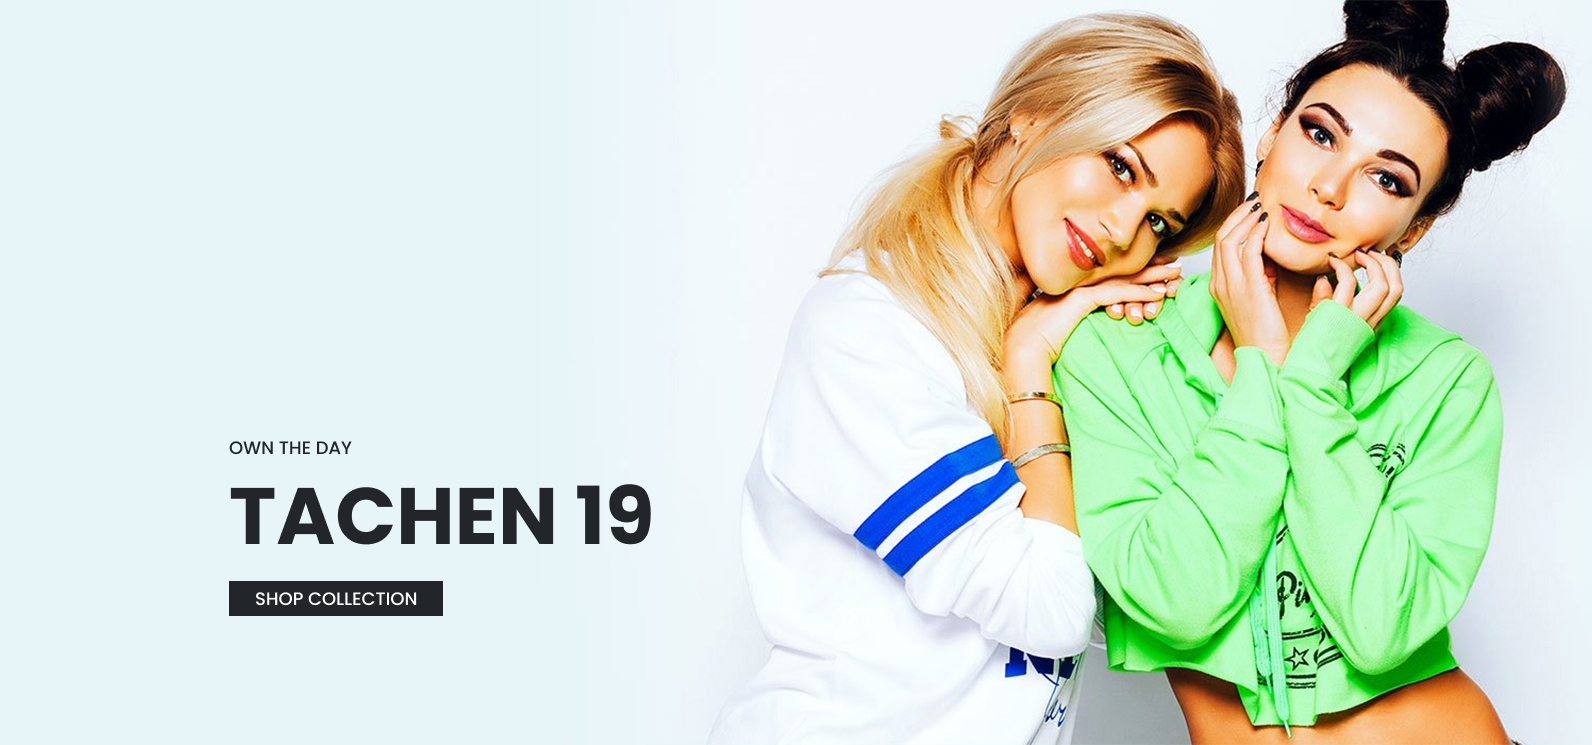
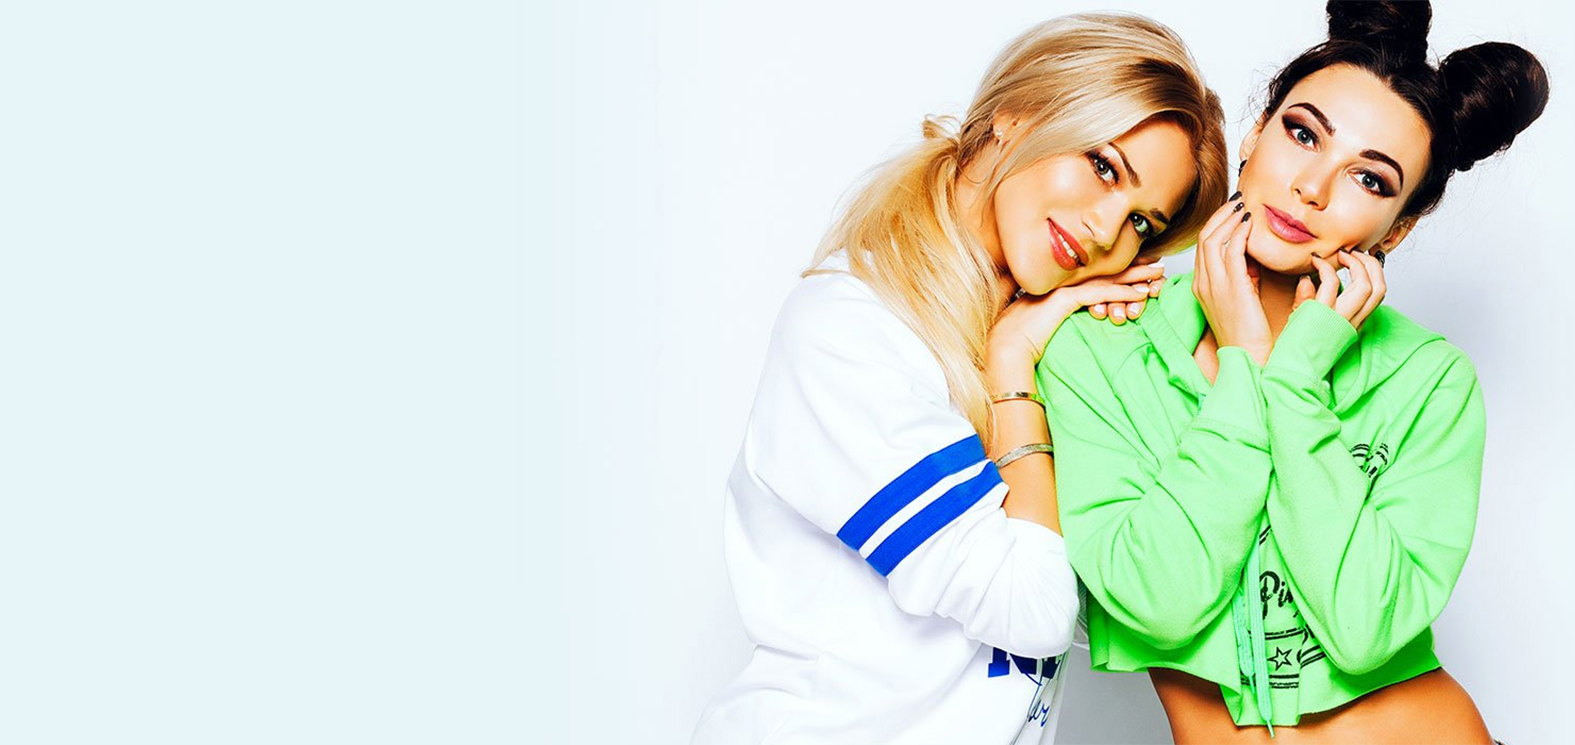
bottom секция

diff --git a/css/style.min.css b/css/style.min.css
@@ -1,1 +1,1 @@
-.header__wrapper{height:83px;display:-webkit-box;display:-ms-flexbox;display:flex;-webkit-box-pack:justify;-ms-flex-pack:justify;justify-content:space-between;-webkit-box-align:center;-ms-flex-align:center;align-items:center;text-transform:uppercase}.logo{text-shadow:4px 2px 4px #969696;font-size:28px;font-weight:600}.menu__list{display:-webkit-box;display:-ms-flexbox;display:flex;-webkit-box-pack:justify;-ms-flex-pack:justify;justify-content:space-between}.menu__item{font-size:18px;padding:0 15px;-webkit-transition:0.3s text-shadow;-o-transition:0.3s text-shadow;transition:0.3s text-shadow}.menu__item:hover{text-shadow:4px 2px 4px #969696;-webkit-transition:0.3s text-shadow;-o-transition:0.3s text-shadow;transition:0.3s text-shadow}.top{background:url("../../images/bg/header-bg.jpg") top center/cover no-repeat;height:745px;display:-webkit-box;display:-ms-flexbox;display:flex;-webkit-box-orient:vertical;-webkit-box-direction:normal;-ms-flex-direction:column;flex-direction:column;-webkit-box-pack:end;-ms-flex-pack:end;justify-content:flex-end;padding-bottom:101px;-webkit-box-shadow:0px 4px 6px #969696;box-shadow:0px 4px 6px #969696}.top__text{font-size:18px;font-weight:500;margin-left:650px}.top__trand{text-transform:uppercase}.top__trand-name{text-transform:uppercase;font-size:80px;line-height:120px}.top__trand-descr{font-weight:500}.models{padding:121px 0 111px 0}.model{-webkit-transition:0.4s all;-o-transition:0.4s all;transition:0.4s all}.model__link{position:relative;display:inline-block;margin-bottom:20px}.model__link_2{margin-right:22px}.model__img:before{content:'';position:absolute;top:0;left:0;right:0;bottom:0;background-color:#000;opacity:0;-webkit-transition:0.4s all;-o-transition:0.4s all;transition:0.4s all;z-index:1}.model__img:hover .model{-webkit-transform:scale(1.05);-ms-transform:scale(1.05);transform:scale(1.05);-webkit-transition:0.4s all;-o-transition:0.4s all;transition:0.4s all}.model__img:hover .catagory__name{opacity:1;-webkit-transition:1s;-o-transition:1s;transition:1s}.model__img:hover:before{opacity:0.5;-webkit-transform:scale(1.05);-ms-transform:scale(1.05);transform:scale(1.05)}.catagory__name{position:absolute;text-transform:uppercase;background-color:#fff;font-weight:500;padding:0 13px;bottom:3%;left:3%;opacity:0;z-index:4}.catalog__card{width:268px;height:371px;-o-object-fit:cover;object-fit:cover}.catalog__img-wrapper{display:inline-block;overflow:hidden}.catalog__img{-webkit-transition:0.4s all;-o-transition:0.4s all;transition:0.4s all}.catalog__img:hover{-webkit-transform:scale(1.05);-ms-transform:scale(1.05);transform:scale(1.05);-webkit-transition:0.4s all;-o-transition:0.4s all;transition:0.4s all}.catalog .swiper-container{padding:72px 0 110px 0}.catalog .swiper-slide{width:268px}.catalog .swiper-button-prev{z-index:1}.catalog .swiper-button-next{z-index:1}.dress__wrapper{display:-webkit-box;display:-ms-flexbox;display:flex;position:relative;-webkit-box-align:start;-ms-flex-align:start;align-items:start;padding-top:64px;margin-bottom:121px;height:750px}.dress__wrapper:hover .dress__link::after{width:100%;-webkit-transition:0.4s all;-o-transition:0.4s all;transition:0.4s all}.dress__wrapper .dress__img_1{-ms-flex-item-align:end;align-self:flex-end}.dress__wrapper .dress__img_2{margin:0 25px}.dress__wrapper .dress__img_3{border-left:25px solid #fff;border-top:25px solid #fff}.dress__show-dress{display:-webkit-box;display:-ms-flexbox;display:flex;-webkit-box-align:end;-ms-flex-align:end;align-items:flex-end;position:absolute;right:0;bottom:0}.dress__link{text-transform:uppercase;position:relative}.dress__link::after{display:block;content:'';position:absolute;height:2px;width:0;background-color:#000;bottom:0;right:0;-webkit-transition:0.4s all;-o-transition:0.4s all;transition:0.4s all}.btn{min-width:147px;min-height:35px;background-color:#22262a;color:#fff;text-transform:uppercase;border:none;-webkit-transition:0.3s all;-o-transition:0.3s all;transition:0.3s all;cursor:pointer}.btn:hover{background-color:#fff;color:#22262a;-webkit-transition:0.3s all;-o-transition:0.3s all;transition:0.3s all}.top__btn{margin-right:34px;margin-top:30px}.title{font-size:20px;font-weight:900;text-align:center;margin-bottom:15px}.title__descr{font-size:15px;font-weight:400;text-align:center}html{-webkit-box-sizing:border-box;box-sizing:border-box}body{font-family:'Poppins', sans-serif}*,*::before,::after{-webkit-box-sizing:inherit;box-sizing:inherit}a{text-decoration:none;color:inherit}a:hover{text-decoration:none;color:inherit}ul,li{margin:0;padding:0;list-style:none}h1,h2,h3,h4,h5,h6{margin:0}.container{max-width:1180px;margin:0 auto;padding:0 15px}.hamburger{display:none}@media (max-width: 1200px){.container{max-width:970px}}@media (max-width: 992px){.container{max-width:750px}}@media (max-width: 767px){.container{max-width:none}}@media (max-width: 575px){.hamburger{display:block;position:absolute;top:50%;-webkit-transform:translateY(-50%);-ms-transform:translateY(-50%);transform:translateY(-50%);width:28px}.hamburger span{display:block;height:3px;width:100%;background-color:#fff;margin-bottom:6px;-webkit-transition:0.5s all;-o-transition:0.5s all;transition:0.5s all}.hamburger span:last-child{margin-bottom:0}.hamburger_active span{margin-bottom:-3px}.hamburger_active span:nth-child(1){-webkit-transform:translateY(3px) rotate(-45deg);-ms-transform:translateY(3px) rotate(-45deg);transform:translateY(3px) rotate(-45deg)}.hamburger_active span:nth-child(2){display:none}.hamburger_active span:nth-child(3){-webkit-transform:translateY(3px) rotate(45deg);-ms-transform:translateY(3px) rotate(45deg);transform:translateY(3px) rotate(45deg)}}
+.header__wrapper{height:83px;display:-webkit-box;display:-ms-flexbox;display:flex;-webkit-box-pack:justify;-ms-flex-pack:justify;justify-content:space-between;-webkit-box-align:center;-ms-flex-align:center;align-items:center;text-transform:uppercase}.logo{text-shadow:4px 2px 4px #969696;font-size:28px;font-weight:600}.menu__list{display:-webkit-box;display:-ms-flexbox;display:flex;-webkit-box-pack:justify;-ms-flex-pack:justify;justify-content:space-between}.menu__item{font-size:18px;padding:0 15px;-webkit-transition:0.3s text-shadow;-o-transition:0.3s text-shadow;transition:0.3s text-shadow}.menu__item:hover{text-shadow:4px 2px 4px #969696;-webkit-transition:0.3s text-shadow;-o-transition:0.3s text-shadow;transition:0.3s text-shadow}.top{background:url("../../images/bg/header-bg.jpg") top center/cover no-repeat;height:745px;display:-webkit-box;display:-ms-flexbox;display:flex;-webkit-box-orient:vertical;-webkit-box-direction:normal;-ms-flex-direction:column;flex-direction:column;-webkit-box-pack:end;-ms-flex-pack:end;justify-content:flex-end;padding-bottom:101px;-webkit-box-shadow:0px 4px 6px #969696;box-shadow:0px 4px 6px #969696}.top__text{font-size:18px;font-weight:500;margin-left:650px}.top__trand{text-transform:uppercase}.top__trand-name{text-transform:uppercase;font-size:80px;line-height:120px}.top__trand-descr{font-weight:500}.models{padding:121px 0 111px 0}.model{-webkit-transition:0.4s all;-o-transition:0.4s all;transition:0.4s all}.model__link{position:relative;display:inline-block;margin-bottom:20px}.model__link_2{margin-right:22px}.model__img:before{content:'';position:absolute;top:0;left:0;right:0;bottom:0;background-color:#000;opacity:0;-webkit-transition:0.4s all;-o-transition:0.4s all;transition:0.4s all;z-index:1}.model__img:hover .model{-webkit-transform:scale(1.05);-ms-transform:scale(1.05);transform:scale(1.05);-webkit-transition:0.4s all;-o-transition:0.4s all;transition:0.4s all}.model__img:hover .catagory__name{opacity:1;-webkit-transition:1s;-o-transition:1s;transition:1s}.model__img:hover:before{opacity:0.5;-webkit-transform:scale(1.05);-ms-transform:scale(1.05);transform:scale(1.05)}.catagory__name{position:absolute;text-transform:uppercase;background-color:#fff;font-weight:500;padding:0 13px;bottom:3%;left:3%;opacity:0;z-index:4}.catalog__card{width:268px;height:371px;-o-object-fit:cover;object-fit:cover}.catalog__img-wrapper{display:inline-block;overflow:hidden}.catalog__img{-webkit-transition:0.4s all;-o-transition:0.4s all;transition:0.4s all}.catalog__img:hover{-webkit-transform:scale(1.05);-ms-transform:scale(1.05);transform:scale(1.05);-webkit-transition:0.4s all;-o-transition:0.4s all;transition:0.4s all}.catalog .swiper-container{padding:72px 0 110px 0}.catalog .swiper-slide{width:268px}.catalog .swiper-button-prev{z-index:1}.catalog .swiper-button-next{z-index:1}.dress__wrapper{display:-webkit-box;display:-ms-flexbox;display:flex;position:relative;-webkit-box-align:start;-ms-flex-align:start;align-items:start;padding-top:64px;margin-bottom:121px;height:750px}.dress__wrapper:hover .dress__link::after{width:100%;-webkit-transition:0.4s all;-o-transition:0.4s all;transition:0.4s all}.dress__wrapper .dress__img-link_1{-ms-flex-item-align:end;align-self:flex-end}.dress__wrapper .dress__img-link_2{margin:0 25px}.dress__wrapper .dress__img-link_3{border-left:25px solid #fff;border-top:25px solid #fff}.dress__show-dress{display:-webkit-box;display:-ms-flexbox;display:flex;-webkit-box-align:end;-ms-flex-align:end;align-items:flex-end;position:absolute;right:0;bottom:0}.dress__link{text-transform:uppercase;position:relative}.dress__link::after{display:block;content:'';position:absolute;height:2px;width:0;background-color:#000;bottom:0;right:0;-webkit-transition:0.4s all;-o-transition:0.4s all;transition:0.4s all}.bottom{background:url("../../images/bg/footer-banner.jpg") top center/cover no-repeat;height:745px;display:-webkit-box;display:-ms-flexbox;display:flex;-webkit-box-orient:vertical;-webkit-box-direction:normal;-ms-flex-direction:column;flex-direction:column;-webkit-box-pack:end;-ms-flex-pack:end;justify-content:flex-end;padding-bottom:101px;-webkit-box-shadow:0px 4px 6px #969696;box-shadow:0px 4px 6px #969696}.bottom__text{font-size:18px;font-weight:500}.bottom__trand{text-transform:uppercase}.bottom__trand-name{text-transform:uppercase;font-size:80px;line-height:120px}.bottom__trand-descr{font-weight:500}.btn{min-width:147px;min-height:35px;background-color:#22262a;color:#fff;text-transform:uppercase;border:none;-webkit-transition:0.3s all;-o-transition:0.3s all;transition:0.3s all;cursor:pointer}.btn:hover{background-color:#fff;color:#22262a;-webkit-transition:0.3s all;-o-transition:0.3s all;transition:0.3s all}.top__btn{margin-right:34px;margin-top:30px}.bottom__btn{margin-top:20px;padding:0 25px}.title{font-size:20px;font-weight:900;text-align:center;margin-bottom:15px}.title__descr{font-size:15px;font-weight:400;text-align:center}html{-webkit-box-sizing:border-box;box-sizing:border-box}body{font-family:'Poppins', sans-serif}*,*::before,::after{-webkit-box-sizing:inherit;box-sizing:inherit}a{text-decoration:none;color:inherit}a:hover{text-decoration:none;color:inherit}ul,li{margin:0;padding:0;list-style:none}h1,h2,h3,h4,h5,h6{margin:0}.container{max-width:1180px;margin:0 auto;padding:0 15px}.hamburger{display:none}@media (max-width: 1200px){.container{max-width:970px}}@media (max-width: 992px){.container{max-width:750px}}@media (max-width: 767px){.container{max-width:none}}@media (max-width: 575px){.hamburger{display:block;position:absolute;top:50%;-webkit-transform:translateY(-50%);-ms-transform:translateY(-50%);transform:translateY(-50%);width:28px}.hamburger span{display:block;height:3px;width:100%;background-color:#fff;margin-bottom:6px;-webkit-transition:0.5s all;-o-transition:0.5s all;transition:0.5s all}.hamburger span:last-child{margin-bottom:0}.hamburger_active span{margin-bottom:-3px}.hamburger_active span:nth-child(1){-webkit-transform:translateY(3px) rotate(-45deg);-ms-transform:translateY(3px) rotate(-45deg);transform:translateY(3px) rotate(-45deg)}.hamburger_active span:nth-child(2){display:none}.hamburger_active span:nth-child(3){-webkit-transform:translateY(3px) rotate(45deg);-ms-transform:translateY(3px) rotate(45deg);transform:translateY(3px) rotate(45deg)}}

diff --git a/index.html b/index.html
@@ -227,17 +227,29 @@
             <div class="title">AVONE STYLES</div>
             <div class="title__descr">Choose Your Favorite Color</div>
             <div class="dress__wrapper">
-                <a href="#" class="dress__img-link">
-                    <img src="images/models/model-5.jpg" alt="" class="dress__img dress__img_1">
+                <a href="#" class="dress__img-link dress__img-link_1">
+                    <img src="images/models/model-5.jpg" alt="" class="dress__img">
                 </a>
-                <a href="#" class="dress__img-link">
-                    <img src="images/models/model-6.jpg" alt="" class="dress__img dress__img_2">
+                <a href="#" class="dress__img-link dress__img-link_2">
+                    <img src="images/models/model-6.jpg" alt="" class="dress__img">
                 </a>
                 <div class="dress__show-dress">
                     <a href="" class="dress__link">show women's dress</a>
-                    <a href="#" class="dress_img-link">
-                        <img src="images/models/model-7.jpg" alt="" class="dress__img dress__img_3">
+                    <a href="#" class="dress__img-link dress__img-link_3">
+                        <img src="images/models/model-7.jpg" alt="" class="dress__img">
                     </a>
+                </div>
+            </div>
+        </div>
+    </section>
+
+    <section class="bottom">
+        <div class="container">
+            <div class="bottom__wrapper">
+                <div class="bottom__text">
+                    <div class="bottom__trand">OWN THE DAY</div>
+                    <h1 class="bottom__trand-name">TACHEN 19</h1>
+                    <button class="bottom__btn btn">SHOP COLLECTION</button>
                 </div>
             </div>
         </div>

diff --git a/scss/blocks/_generals.scss b/scss/blocks/_generals.scss
@@ -7,7 +7,6 @@
     padding-bottom: 101px;
     box-shadow: 0px 4px 6px rgba(150, 150, 150, 1);
 
-    // &__wrapper {}
 
     &__text {
         font-size: 18px;
@@ -152,7 +151,8 @@
             transition: 0.4s all;
         }
 
-        .dress__img {
+        
+        .dress__img-link {
 
             &_1 {
                 align-self: flex-end;
@@ -167,6 +167,8 @@
                 border-top: 25px solid rgb(255, 255, 255);
             }
         }
+
+
     }
 
     &__show-dress {
@@ -192,5 +194,36 @@
             right: 0;
             transition: 0.4s all;
         }
+    }
+}
+
+.bottom {
+    background: url('../../images/bg/footer-banner.jpg')top center / cover no-repeat;
+    height: 745px;
+    display: flex;
+    flex-direction: column;
+    justify-content: flex-end;
+    padding-bottom: 101px;
+    box-shadow: 0px 4px 6px rgba(150, 150, 150, 1);
+
+
+    &__text {
+        font-size: 18px;
+        font-weight: 500;
+    }
+
+    &__trand {
+        text-transform: uppercase;
+    }
+
+    &__trand-name {
+        text-transform: uppercase;
+        font-size: 80px;
+        line-height: 120px;
+    }
+
+    &__trand-descr {
+        font-weight: 500;
+
     }
 }

diff --git a/scss/blocks/_button.scss b/scss/blocks/_button.scss
@@ -18,3 +18,8 @@
     margin-right: 34px;
     margin-top: 30px;
 }
+
+.bottom__btn{
+    margin-top: 20px;
+    padding: 0 25px;
+}
